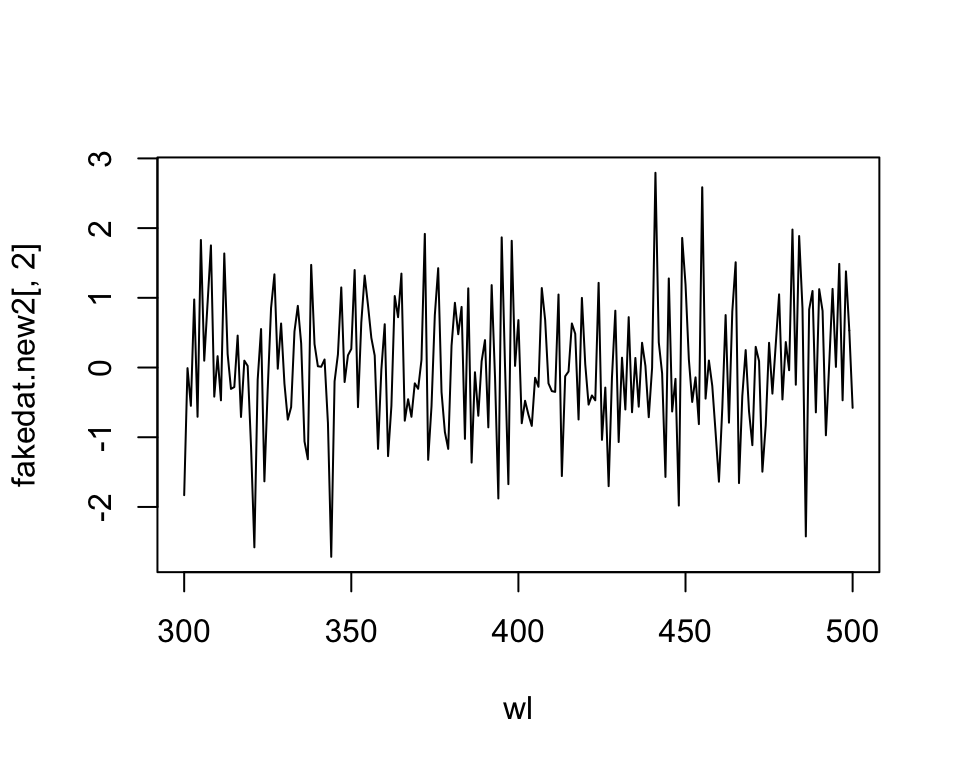
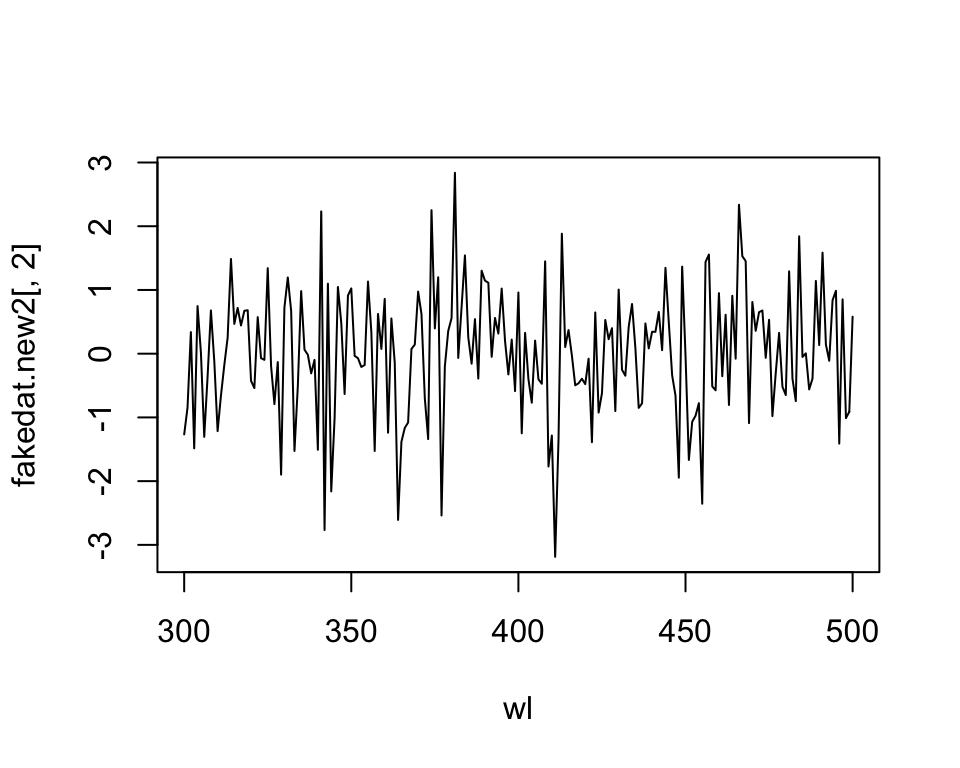
Tidying

diff --git a/docs/articles/pavo.html b/docs/articles/pavo.html
@@ -117,13 +117,13 @@ fakedat &lt;-<span class="st"> </span><span class="kw">data.frame</span>(<span c
                       <span class="dt">refl2 =</span> <span class="kw">rnorm</span>(<span class="dt">n =</span> <span class="dv">801</span>), 
                       <span class="dt">wavelength =</span> <span class="kw">seq</span>(<span class="dv">300</span>, <span class="dv">700</span>, <span class="dt">by =</span> .<span class="dv">5</span>))
 <span class="kw">head</span>(fakedat)</code></pre></div>
-<pre><code>##          refl1      refl2 wavelength
-## 1 -1.830806222  1.2581198      300.0
-## 2  1.565405189  0.9307840      300.5
-## 3 -0.009088874  1.2966261      301.0
-## 4  1.496766284 -0.8027537      301.5
-## 5 -0.549245112 -0.1389886      302.0
-## 6  0.641706065 -1.2496705      302.5</code></pre>
+<pre><code>##        refl1      refl2 wavelength
+## 1 -1.2667539  1.0925861      300.0
+## 2  1.8710984  1.9170040      300.5
+## 3 -0.8457866  2.2345651      301.0
+## 4  0.3611889 -0.2801805      301.5
+## 5  0.3383448  1.2652474      302.0
+## 6 -0.1032927  1.4596222      302.5</code></pre>
 <div class="sourceCode"><pre class="sourceCode r"><code class="sourceCode r"><span class="kw"><a href="../reference/as.rspec.html">is.rspec</a></span>(fakedat)</code></pre></div>
 <pre><code>## [1] FALSE</code></pre>
 <div class="sourceCode"><pre class="sourceCode r"><code class="sourceCode r">fakedat.new &lt;-<span class="st"> </span><span class="kw"><a href="../reference/as.rspec.html">as.rspec</a></span>(fakedat)</code></pre></div>
@@ -131,22 +131,22 @@ fakedat &lt;-<span class="st"> </span><span class="kw">data.frame</span>(<span c
 <div class="sourceCode"><pre class="sourceCode r"><code class="sourceCode r"><span class="kw"><a href="../reference/as.rspec.html">is.rspec</a></span>(fakedat.new)</code></pre></div>
 <pre><code>## [1] TRUE</code></pre>
 <div class="sourceCode"><pre class="sourceCode r"><code class="sourceCode r"><span class="kw">head</span>(fakedat.new)</code></pre></div>
-<pre><code>##    wl        refl1      refl2
-## 1 300 -1.830806222  1.2581198
-## 2 301 -0.009088874  1.2966261
-## 3 302 -0.549245112 -0.1389886
-## 4 303  0.975948250  1.0952126
-## 5 304 -0.706167182  0.7110018
-## 6 305  1.829499452  1.0512156</code></pre>
+<pre><code>##    wl       refl1      refl2
+## 1 300 -1.26675393  1.0925861
+## 2 301 -0.84578663  2.2345651
+## 3 302  0.33834476  1.2652474
+## 4 303 -1.48495661 -1.3439431
+## 5 304  0.74637850  0.9283136
+## 6 305  0.02238623  0.5077285</code></pre>
 <p>As can be seen, <code>as.rspec</code> renames the column containing wavelengths, sets it as the first column, interpolates the data in 1-nm bins and converts the data to an <code>rspec</code> object. Note that the same output is returned with specifying <code>whichwl = 3</code>:</p>
 <div class="sourceCode"><pre class="sourceCode r"><code class="sourceCode r"><span class="kw">head</span>(<span class="kw"><a href="../reference/as.rspec.html">as.rspec</a></span>(fakedat, <span class="dt">whichwl =</span> <span class="dv">3</span>))</code></pre></div>
-<pre><code>##    wl        refl1      refl2
-## 1 300 -1.830806222  1.2581198
-## 2 301 -0.009088874  1.2966261
-## 3 302 -0.549245112 -0.1389886
-## 4 303  0.975948250  1.0952126
-## 5 304 -0.706167182  0.7110018
-## 6 305  1.829499452  1.0512156</code></pre>
+<pre><code>##    wl       refl1      refl2
+## 1 300 -1.26675393  1.0925861
+## 2 301 -0.84578663  2.2345651
+## 3 302  0.33834476  1.2652474
+## 4 303 -1.48495661 -1.3439431
+## 5 304  0.74637850  0.9283136
+## 6 305  0.02238623  0.5077285</code></pre>
 <p>Finally, the <code>lim</code> argument allows you to specify the range of wavelengths contained in the input dataset. This is useful either in the case that the dataset doesn’t contain this information (and hence you cannot specify the column with <code>whichwl</code> or automatically find the column with <code>as.rspec</code>). Additionally, it may be useful to focus on a subset of wavelength. In our example, the wavelengths ranged from 300 to 700 nm, however you could also specify a restricted range of wavelengths with <code>lim</code>:</p>
 <div class="sourceCode"><pre class="sourceCode r"><code class="sourceCode r">fakedat.new2 &lt;-<span class="st"> </span><span class="kw"><a href="../reference/as.rspec.html">as.rspec</a></span>(fakedat, <span class="dt">lim =</span> <span class="kw">c</span>(<span class="dv">300</span>, <span class="dv">500</span>))</code></pre></div>
 <pre><code>## wavelengths found in column 3</code></pre>

diff --git a/docs/index.html b/docs/index.html
@@ -54,27 +54,11 @@
 <div class="page-header"><h1 class="hasAnchor">
 <a href="#pavo" class="anchor"></a><code>pavo</code>
 </h1></div>
-<div id="an-r-package-for-spectral-color-analysis-by-rafael-maia-thomas-white-chad-eliason-pierre-paul-bitton" class="section level3">
-<h3 class="hasAnchor">
-<a href="#an-r-package-for-spectral-color-analysis-by-rafael-maia-thomas-white-chad-eliason-pierre-paul-bitton" class="anchor"></a><em>an R package for spectral color analysis by Rafael Maia, Thomas White, Chad Eliason, Pierre-Paul Bitton</em>
-</h3>
 <p><a href="https://cran.r-project.org/package=pavo/"><img src="http://www.r-pkg.org/badges/version/pavo" alt="cran version"></a> <img src="http://cranlogs.r-pkg.org/badges/grand-total/pavo" alt="cran downloads"><a href="https://travis-ci.org/rmaia/pavo/branches"><img src="https://travis-ci.org/rmaia/pavo.svg?branch=master" alt="Build Status"></a><br><!-- revamp: [![Build Status](https://travis-ci.org/rmaia/pavo.svg?branch=revamp)](https://travis-ci.org/rmaia/pavo/branches) --></p>
-<p><strong>Need help with the package?</strong> Join the chat: <a href="https://gitter.im/r-pavo/help?utm_source=badge&amp;utm_medium=badge&amp;utm_campaign=pr-badge&amp;utm_content=badge"><img src="https://badges.gitter.im/Join%20Chat.svg" alt="Join the chat at https://gitter.im/r-pavo/help"></a></p>
-</div>
-<div id="about" class="section level2">
+<p><code>pavo</code> is an R package for pro organisation, analysis, and visualisation of spectral color data in a unified framework. Developed by Rafael Maia, Thomas White, Chad Eliason, Pierre-Paul Bitton.</p>
+<div id="installation" class="section level2">
 <h2 class="hasAnchor">
-<a href="#about" class="anchor"></a>About</h2>
-<p>A set of functions and tools for the analysis of color data in a unified framework</p>
-<div id="citing-pavo" class="section level3">
-<h3 class="hasAnchor">
-<a href="#citing-pavo" class="anchor"></a>Citing pavo</h3>
-<p>The manuscript describing the package has been published and is free to access:</p>
-<p>Maia R., Eliason C.M., Bitton P.-P., Doucet S.M. and Shawkey M.D. 2013. <strong>pavo: an R Package for the analysis, visualization and organization of spectral data.</strong> <em>Methods in Ecology and Evolution</em> 4(10):609-613. [doi: 10.1111/2041-210X.12069] (<a href="http://onlinelibrary.wiley.com/doi/10.1111/2041-210X.12069/abstract" class="uri">http://onlinelibrary.wiley.com/doi/10.1111/2041-210X.12069/abstract</a>)</p>
-</div>
-</div>
-<div id="install" class="section level2">
-<h2 class="hasAnchor">
-<a href="#install" class="anchor"></a>Install</h2>
+<a href="#installation" class="anchor"></a>Installation</h2>
 <p>this is the development page for <code>pavo</code>. The stable release is available from CRAN. Simply use <code>install.packages('pavo')</code> to install.</p>
 <p>If you want to install the bleeding edge version of <code>pavo</code>, you can:</p>
 <ul>
@@ -87,6 +71,17 @@ devtools<span class="op">::</span><span class="kw">install_github</span>(<span c
 <li>download files from github and install using <code>$R CMD INSTALL</code> or, from within R:</li>
 </ul>
 <div class="sourceCode"><pre class="sourceCode r"><code class="sourceCode r"><span class="kw">install.packages</span>(path,<span class="dt">type=</span><span class="st">'source'</span>, <span class="dt">repos=</span><span class="ot">NULL</span>)</code></pre></div>
+</div>
+<div id="getting-help" class="section level2">
+<h2 class="hasAnchor">
+<a href="#getting-help" class="anchor"></a>Getting help</h2>
+<p><strong>Need help with the package?</strong> Join the chat: <a href="https://gitter.im/r-pavo/help?utm_source=badge&amp;utm_medium=badge&amp;utm_campaign=pr-badge&amp;utm_content=badge"><img src="https://badges.gitter.im/Join%20Chat.svg" alt="Join the chat at https://gitter.im/r-pavo/help"></a></p>
+</div>
+<div id="citing-pavo" class="section level2">
+<h2 class="hasAnchor">
+<a href="#citing-pavo" class="anchor"></a>Citing pavo</h2>
+<p>The manuscript describing the package has been published and is free to access:</p>
+<p>Maia R., Eliason C.M., Bitton P.-P., Doucet S.M. and Shawkey M.D. 2013. <strong>pavo: an R Package for the analysis, visualization and organization of spectral data.</strong> <em>Methods in Ecology and Evolution</em> 4(10):609-613. [doi: 10.1111/2041-210X.12069] (<a href="http://onlinelibrary.wiley.com/doi/10.1111/2041-210X.12069/abstract" class="uri">http://onlinelibrary.wiley.com/doi/10.1111/2041-210X.12069/abstract</a>)</p>
 </div>
 </div>
   </div>

diff --git a/docs/news/index.html b/docs/news/index.html
@@ -79,6 +79,42 @@
     </div>
 
     <div class="contents">
+    <div id="pavo-1-2" class="section level2">
+<h2 class="hasAnchor">
+<a href="#pavo-1-2" class="anchor"></a>pavo 1.2</h2>
+<p>MAJOR CHANGES:</p>
+<ul>
+<li>Added the CIELch model and an associated 3d plot, which are accessed via colspace(space = ‘cielch’) and plot.colspace().</li>
+</ul>
+<p>MINOR FEATURES AND BUG FIXES:</p>
+<ul>
+<li>vignettes have been amalgamated &amp; the single, main vignette is now up-to-date</li>
+<li>added more informative labels for the segment analysis plot</li>
+</ul>
+</div>
+    <div id="pavo-1-1" class="section level2">
+<h2 class="hasAnchor">
+<a href="#pavo-1-1" class="anchor"></a>pavo 1.1</h2>
+<p>MAJOR CHANGES:</p>
+<p>NEW FUNCTIONS:</p>
+<ul>
+<li>segspace() replaces the deprecated segclass(), and is accessed via the colspace() argument space = ‘segment’. The results of segspace() are also now compatible with coldist() for the estimation of Euclidean colour-distances.</li>
+<li>segplot() is a plot for Endler’s (1990) segment analysis, and is accessed — along with all other 2d plots — via plot.colspace()</li>
+</ul>
+<p>MINOR FEATURES AND BUG FIXES:</p>
+<ul>
+<li>the use of relative quantum catches is now optional in the categorical colorspace (though still produces a warning), for greater flexibility</li>
+<li>updated several functions to work when rspec object has only one spectrum</li>
+<li>fixed bug in voloverlap where interactive plots would result in error</li>
+<li>fixed incorrect labels in the maxwell triangle plot</li>
+<li>fixed a bug in as.rspec() in which lim was not applied when interpolate = FALSE</li>
+<li>fixed bug in aggplot() which resulted in error when using lty, lwd arguments</li>
+<li>warning if ocular media is being used in both vismodel() and sensmodel()</li>
+<li>added an ‘all’ option to the achromatic argument in vismodel()</li>
+<li>added the ability to calculate dL for cielab models in coldist()</li>
+<li>added some more informative messages and warnings</li>
+</ul>
+</div>
     <div id="pavo-1-0" class="section level2">
 <h2 class="hasAnchor">
 <a href="#pavo-1-0" class="anchor"></a>pavo 1.0</h2>
@@ -251,7 +287,6 @@
 <li>peakshape() minor fixes</li>
 </ul>
 </div>
-    NA
     </div>
   </div>
 
@@ -259,6 +294,8 @@
     <div id="tocnav">
       <h2>Contents</h2>
       <ul class="nav nav-pills nav-stacked">
+        <li><a href="#pavo-1-2">1.2</a></li>
+        <li><a href="#pavo-1-1">1.1</a></li>
         <li><a href="#pavo-1-0">1.0</a></li>
         <li><a href="#pavo-0-5-6">0.5-6</a></li>
         <li><a href="#pavo-0-5-5">0.5-5</a></li>
@@ -269,7 +306,6 @@
         <li><a href="#pavo-0-3-1">0.3-1</a></li>
         <li><a href="#pavo-0-3">0.3</a></li>
         <li><a href="#pavo-0-1-2">0.1-2</a></li>
-        <li><a href="#NA">NA</a></li>
       </ul>
     </div>
   </div>
